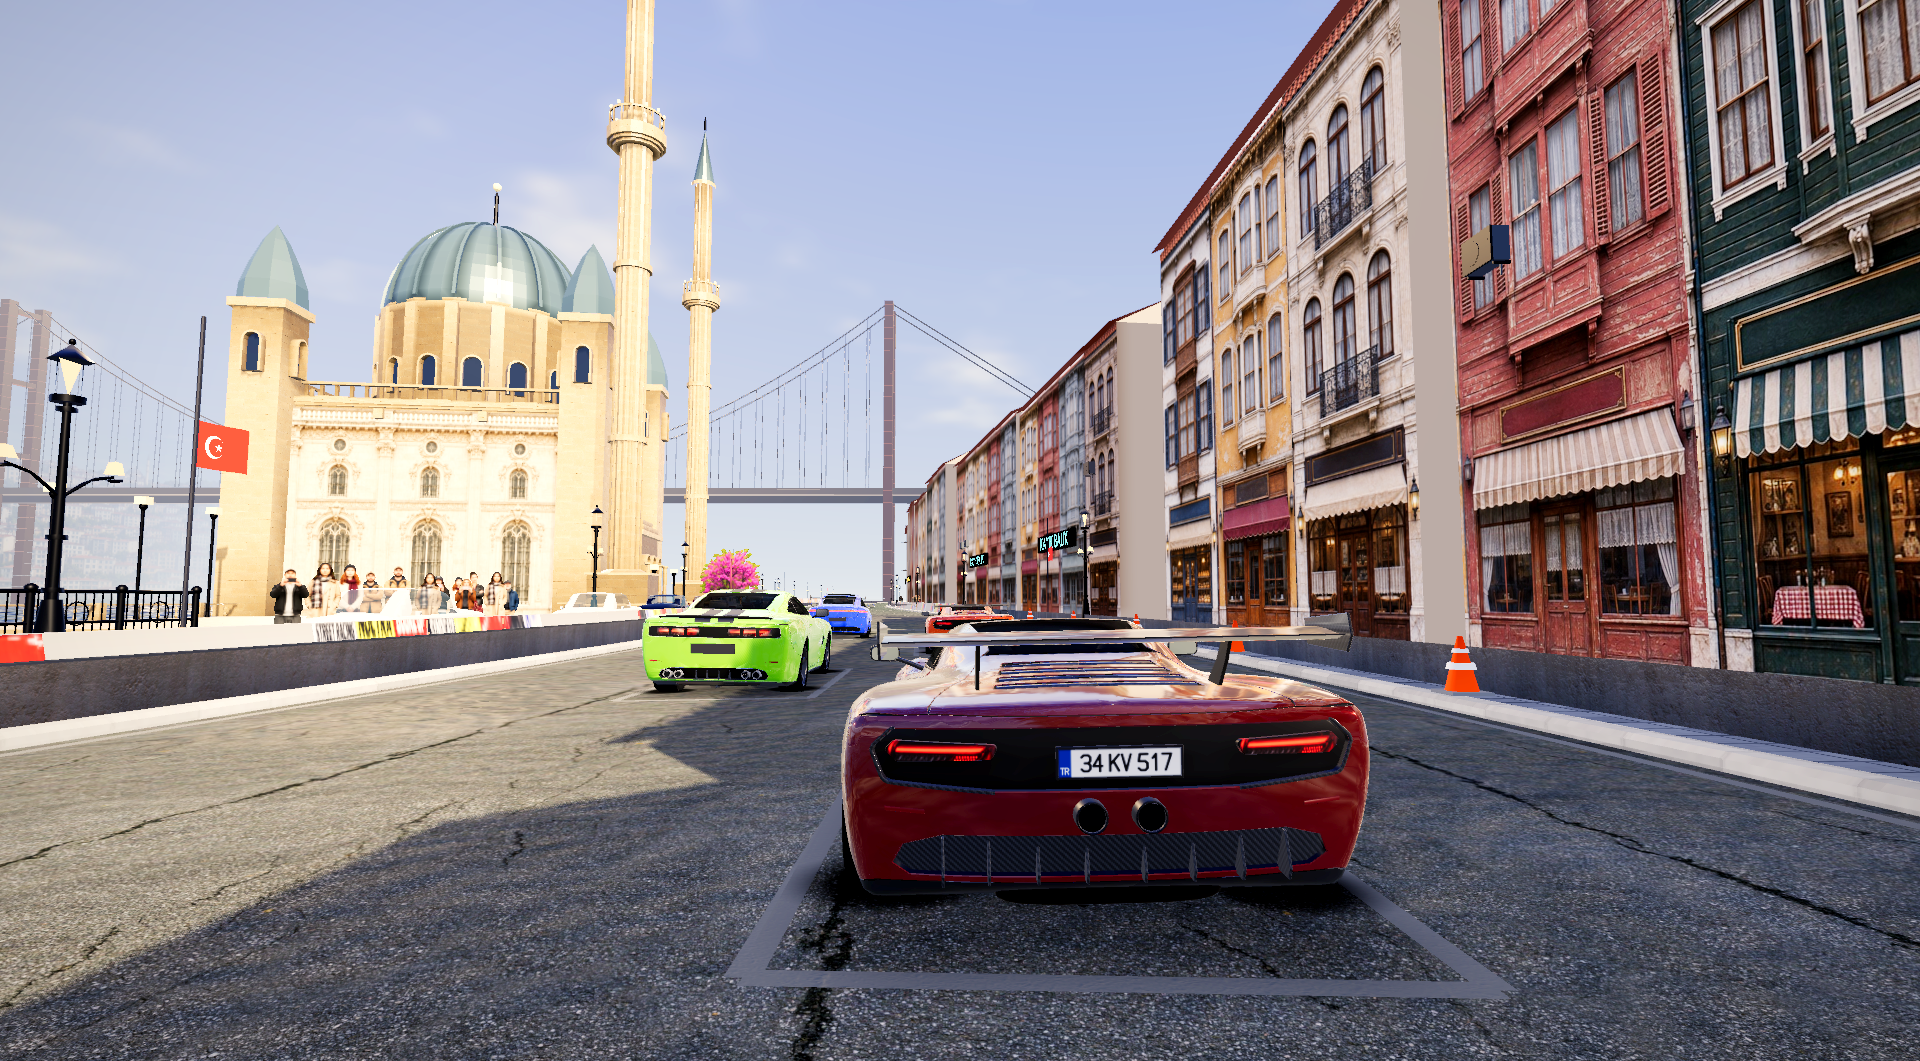
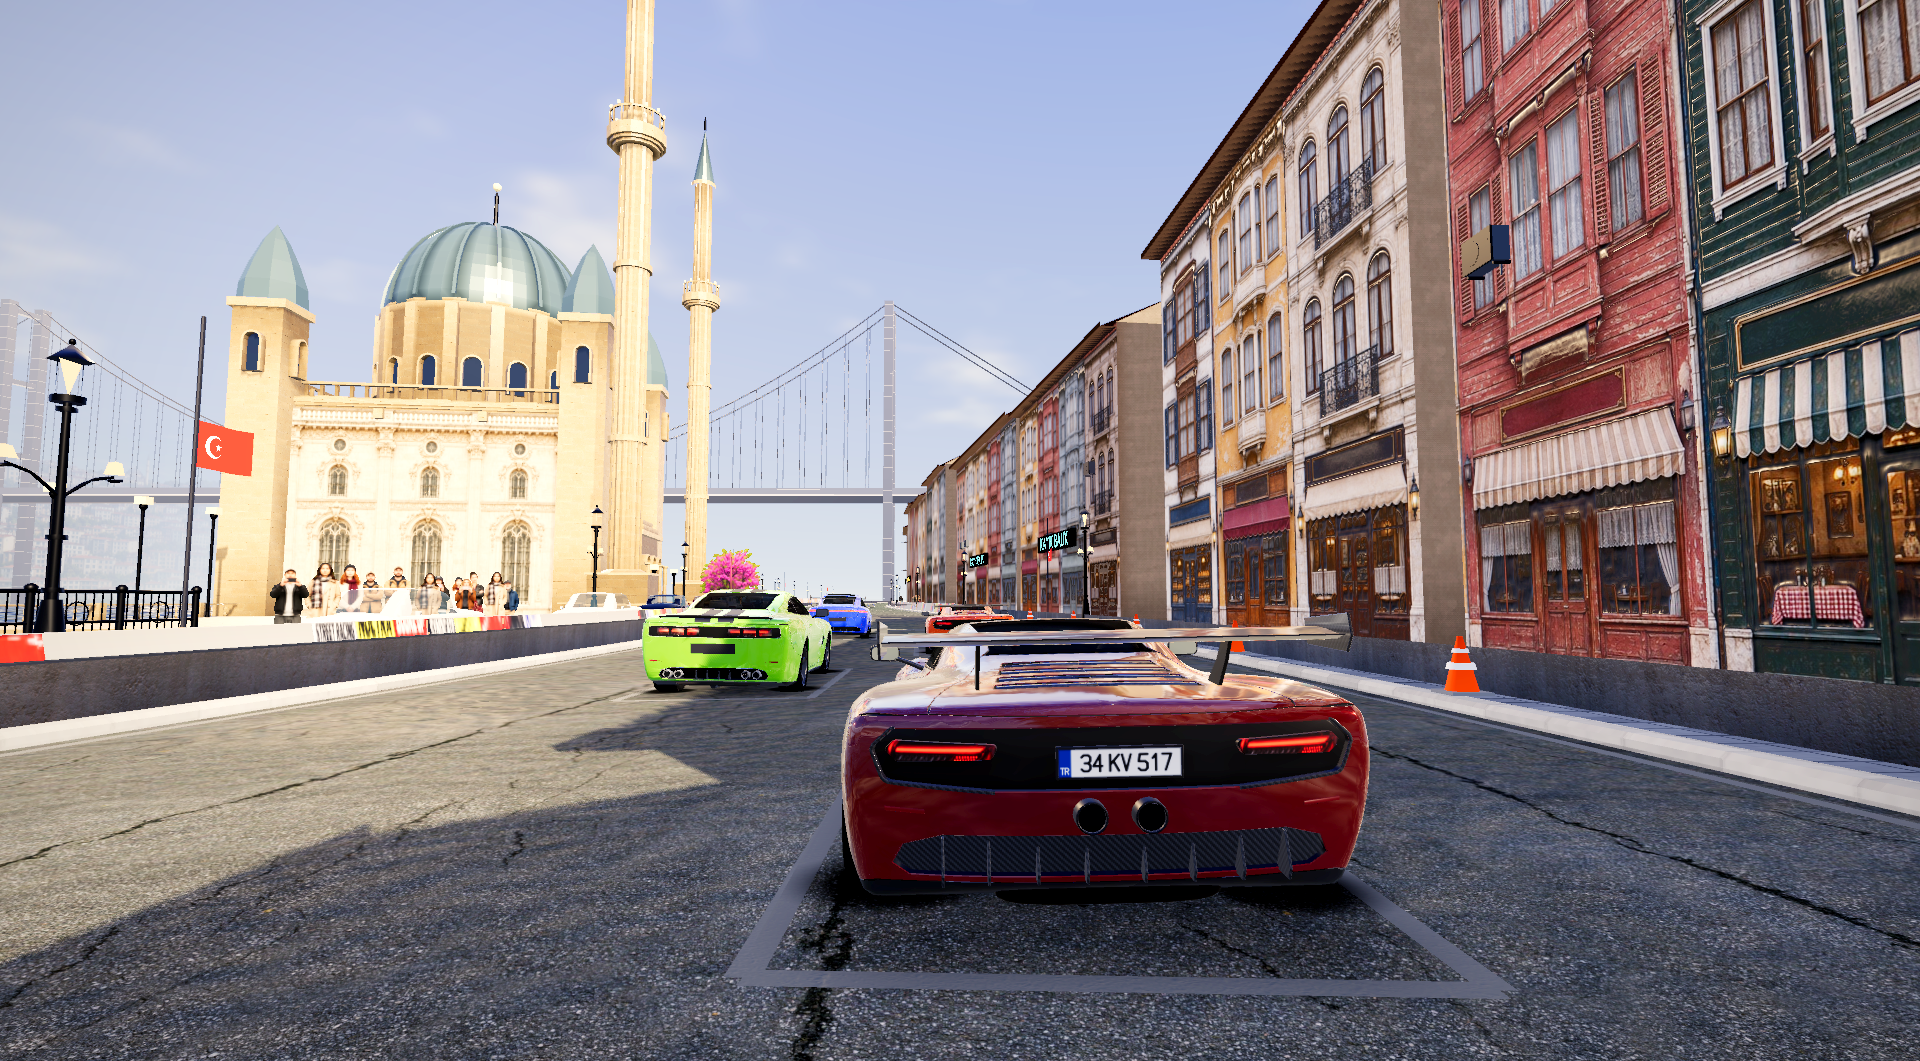
Photo rows: party-wall plaster keeps the CC0 grain but loses its ochre hue (read as mustard); warm stone-grey wall colour; benchmark re-captured on the merged RC

diff --git a/docs/status/OVERNIGHT_HANDOFF.md b/docs/status/OVERNIGHT_HANDOFF.md
@@ -11,6 +11,16 @@ Brief: `docs/status/OVERNIGHT_MASTER.md`. Lead: Opus 5.5. Release candidate bran
 - Graphics audit (6 Opus auditors, each checked by an Opus verifier): digest kept outside the repo; the corrected
   proposals are what the work packages implement.
 
+## Done since 00:30 (all on release/rc-2026-11-28, pushed)
+- Lead lighting pass: 41d7e47, 5220b50, 80ecdcc (day/sunset look, fog, asphalt/kerb specular, patchy wet road,
+  mirror 5 taps, rims/tyres, sea). Captures in evidence/screens/ortakoy_benchmark/.
+- Merged after Haiku review + Opus lead review: wp/drive (telemetry report docs/perf/DRIVE_TELEMETRY.md),
+  wp/perf (mirror diet, probes off on Low, shadow filter per preset, Medium FXAA; docs/perf/GPU_PASS_2026-11-28.md),
+  wp/arch (textured party walls, roofs, eaves, glass gloss, bridge day colours), wp/online (LAN race, off by default).
+  Full suite after the merges: 380 tests, 0 failed.
+- Online in-game path verified (9d11983): tools/net_ingame_check.py, rendered client + headless client + server on
+  127.0.0.1; fixed two real bugs (remote cars were static walls; clients stopped sending at the local finish -> DNF).
+
 ## In progress
 - Lead: day/sunset lighting (ACES white 6, real depth fog, hazy sky, street-dark ground half, warm car fill/rim,
   day fill direction bug), dry asphalt and kerb specular per hour, mirror blur 9 -> 5 taps, sea colours per hour,
